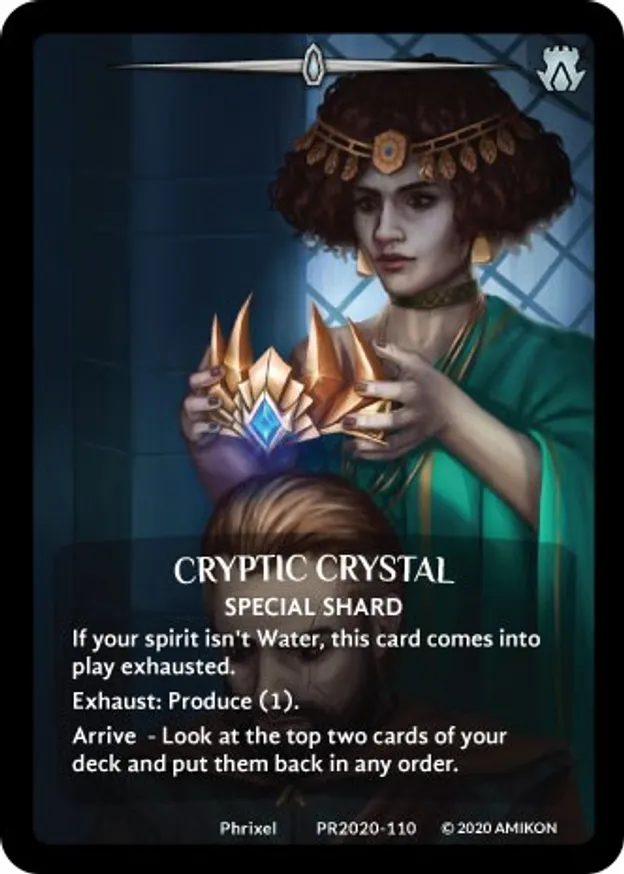
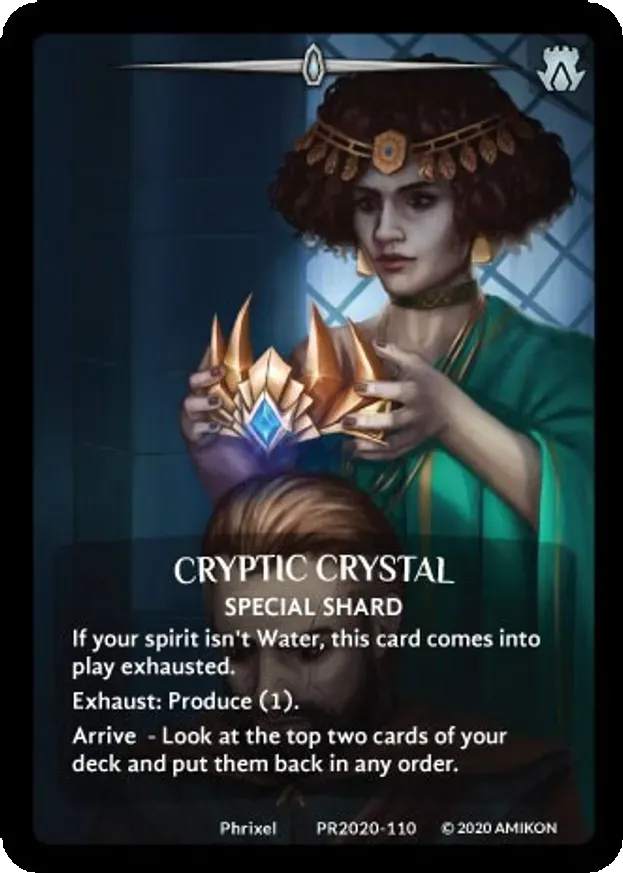
image fix

diff --git a/images/python-scripts/borders.py b/images/python-scripts/borders.py
@@ -7,89 +7,84 @@ def convertImage(filename):
     # Gets the first image, then saves the data
     img = Image.open(filename)
     img = img.convert("RGBA")
+    datas = img.getdata()
     width, height = img.size
+    sal = []
 
-    check = img.getdata()
-    datas = list(img.getdata())
-    width, height = img.size
-    newData = []
+    img1 = Image.open("../Promos/wyvern-crystal.webp")
+    img1 = img1.convert("RGBA")
+    datas1 = img1.getdata()
+    width1, height1 = img.size
+    sal1 = []
 
-    tc = True
     for y in range(height):
         for x in range(width):
-            pixels = check.getpixel((x, y))
-            if pixels[0] >= 21 and pixels[1] >= 21 and pixels[2] >= 21 and tc:
-                pixel_list = list(datas[y * img.width + x])
-                # Change the index value of the pixel in the list.
-                pixel_list[0] = 255
-                pixel_list[1] = 255
-                pixel_list[2] = 255
-                pixel_list[3] = 0
-                # Convert the list pixel value back to a tuple.
-                datas[y * img.width + x] = tuple(pixel_list)
+            pixel = datas.getpixel((x, y))
+            pixel1 = datas1.getpixel((x, y))
+            if y <= 30 or y >= height - 27 or x <= 30 or x >= width - 27:
+                sal.append(pixel1)
             else:
-                tc = False
-        tc = True
+                sal.append(pixel)
 
-    for y in range(height):
-        for x in reversed(range(width)):
-            pixels = check.getpixel((x, y))
-            if pixels[0] >= 21 and pixels[1] >= 21 and pixels[2] >= 21 and tc:
-                pixel_list = list(datas[y * img.width + x])
-                # Change the index value of the pixel in the list.
-                pixel_list[0] = 255
-                pixel_list[1] = 255
-                pixel_list[2] = 255
-                pixel_list[3] = 0
-                # Convert the list pixel value back to a tuple.
-                datas[y * img.width + x] = tuple(pixel_list)
-            else:
-                tc = False
-        tc = True
+    # Finds where to cut the borders
+    # ls = findLeftSide(datas, width, height)
+    # rs = findRightSide(datas, width, height)
+    # ts = findTopSide(datas, width, height)
+    # bs = findBottomSide(datas, width, height)
 
-    img.putdata(datas)
-    img.save(filename, "WEBP")
-    print("Success")
+    # Crops the image and restablishes borders
+    # img = img.crop((ls, ts, rs, bs))
+    # img = img.convert("RGBA")
+    # width, height = img.size
 
+    # check = img.getdata()
+    # datas = list(img.getdata())
+    # width, height = img.size
+    # newData = []
+
+    # tc = True
     # for y in range(height):
     #     for x in range(width):
-    #         pixel = datas.getpixel((x, y))
-    #         if x == 8 or x == width - 9 or y == 6 or y == height - 10:
-    #             newData.append((255, 255, 255, 255))
-    #         else:
-    #             newData.append(pixel)
-
-    # for y in range(height):
-    #     for x in range(width):
-    #         pixel = datas.getpixel((x, y))
-    #         if x <= 8 or x >= width - 9 or y <= 6 or y >= height - 10:
-    #             if pixel not in sal:
-    #                 sal.append(pixel)
-
-    # for y in range(height):
-    #     for x in range(width):
-    #         pixel = datas.getpixel((x, y))
-    #         if (pixel in sal and tc) or x in range(width - 7, width):
-    #             if pixel[0] >= 139 and pixel[1] >= 139 and pixel[2] >= 139:
-    #                 newData.append((255, 255, 255, 0))
-    #             else:
-    #                 newData.append((0, 0, 0, 255))
+    #         pixels = check.getpixel((x, y))
+    #         if pixels[0] >= 21 and pixels[1] >= 21 and pixels[2] >= 21 and tc:
+    #             pixel_list = list(datas[y * img.width + x])
+    #             # Change the index value of the pixel in the list.
+    #             pixel_list[0] = 255
+    #             pixel_list[1] = 255
+    #             pixel_list[2] = 255
+    #             pixel_list[3] = 0
+    #             # Convert the list pixel value back to a tuple.
+    #             datas[y * img.width + x] = tuple(pixel_list)
     #         else:
     #             tc = False
-    #             newData.append(pixel)
     #     tc = True
 
-    # img.putdata(newData)
-    # filename = filename.replace("../Expansion-Pack-Generations/", "")
-    # img.save(filename, "WEBP")
-    # print("Success")
+    # for y in range(height):
+    #     for x in reversed(range(width)):
+    #         pixels = check.getpixel((x, y))
+    #         if pixels[0] >= 21 and pixels[1] >= 21 and pixels[2] >= 21 and tc:
+    #             pixel_list = list(datas[y * img.width + x])
+    #             # Change the index value of the pixel in the list.
+    #             pixel_list[0] = 255
+    #             pixel_list[1] = 255
+    #             pixel_list[2] = 255
+    #             pixel_list[3] = 0
+    #             # Convert the list pixel value back to a tuple.
+    #             datas[y * img.width + x] = tuple(pixel_list)
+    #         else:
+    #             tc = False
+    #     tc = True
+
+    img.putdata(sal)
+    img.save(filename, "WEBP")
+    print("Success")
 
 
 def findLeftSide(datas, wi, hi):
     for x in range(wi):
         for y in range(hi):
             pixel = datas.getpixel((x, y))
-            if pixel[0] < 88 and pixel[1] < 88 and pixel[2] < 88:
+            if pixel[0] < 21 and pixel[1] < 21 and pixel[2] < 21:
                 return x
 
 
@@ -97,7 +92,7 @@ def findRightSide(datas, wi, hi):
     for x in reversed(range(wi)):
         for y in range(hi):
             pixel = datas.getpixel((x, y))
-            if pixel[0] < 88 and pixel[1] < 88 and pixel[2] < 88:
+            if pixel[0] < 21 and pixel[1] < 21 and pixel[2] < 21:
                 return x
 
 
@@ -105,7 +100,7 @@ def findTopSide(datas, wi, hi):
     for y in range(hi):
         for x in range(wi):
             pixel = datas.getpixel((x, y))
-            if pixel[0] < 88 and pixel[1] < 88 and pixel[2] < 88:
+            if pixel[0] < 21 and pixel[1] < 21 and pixel[2] < 21:
                 return y
 
 
@@ -113,11 +108,17 @@ def findBottomSide(datas, wi, hi):
     for y in reversed(range(hi)):
         for x in range(wi):
             pixel = datas.getpixel((x, y))
-            if pixel[0] < 88 and pixel[1] < 88 and pixel[2] < 88:
+            if pixel[0] < 21 and pixel[1] < 21 and pixel[2] < 21:
                 return y
 
 
-directory = "../Expansion-Pack-Conviction/"
-for filename in os.listdir(directory):
-    if ".webp" in filename:
-        convertImage(directory + filename)
+# directory = "../Promos/"
+# for filename in os.listdir(directory):
+#     if ".webp" in filename:
+#         convertImage(directory + filename)
+
+convertImage("../Promos/omega-magic-yami.webp")
+convertImage("../Promos/omega-magic-kaze.webp")
+convertImage("../Promos/omega-magic-mizu.webp")
+convertImage("../Promos/omega-magic-kasai.webp")
+convertImage("../Promos/omega-magic-hikari.webp")
